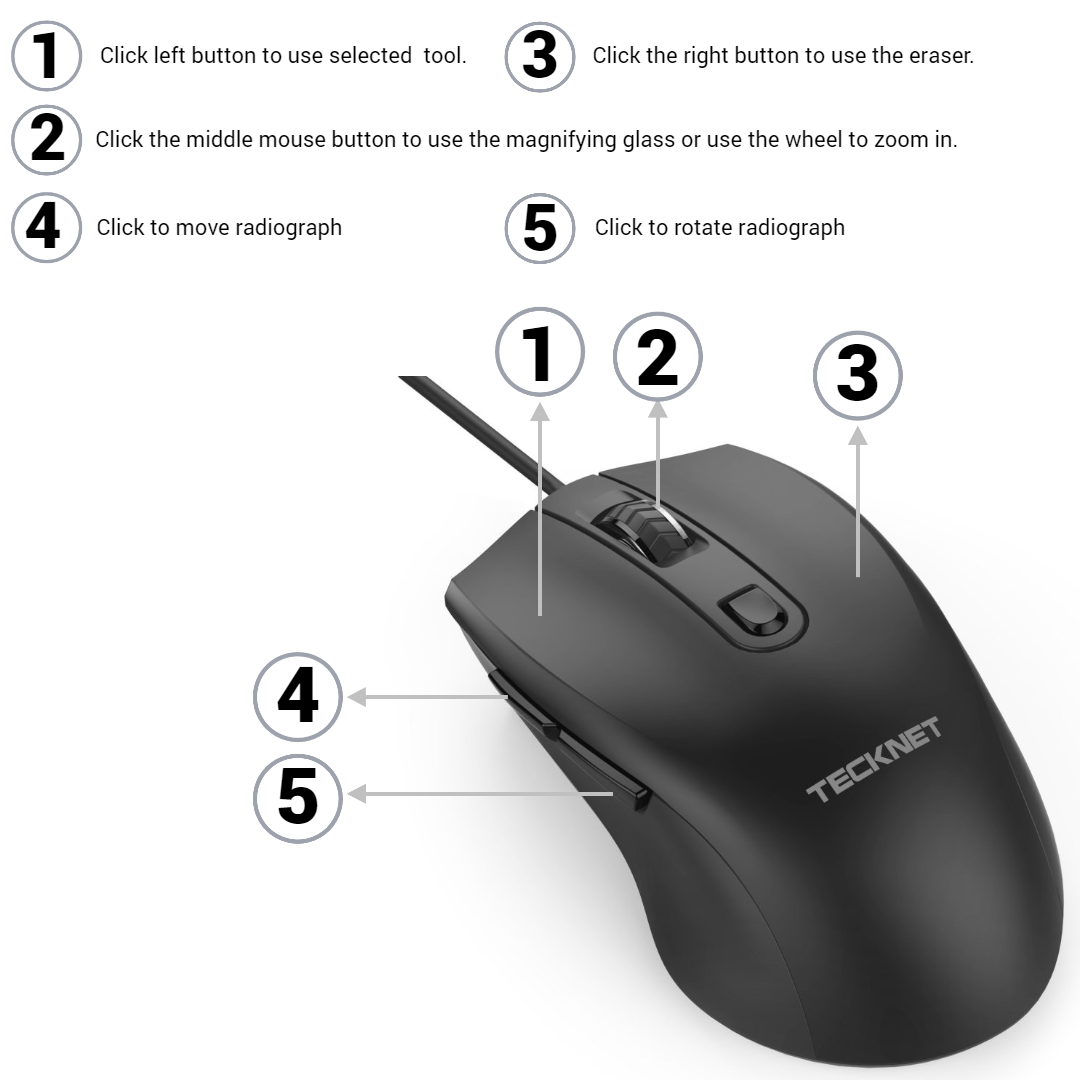
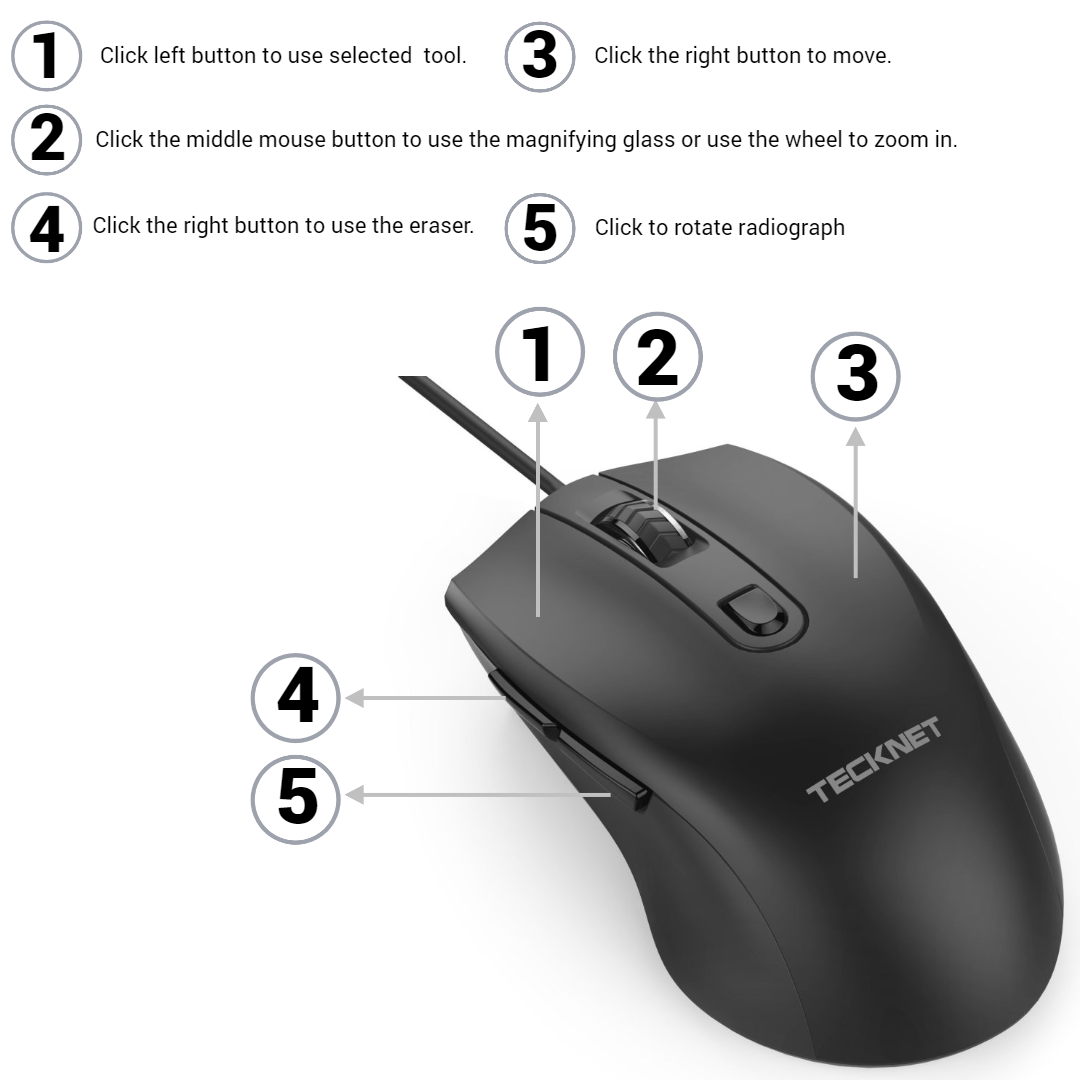
cambio de herramineta de mover a borrar por defaul

diff --git a/src/app/radiology/radiology.component.ts b/src/app/radiology/radiology.component.ts
@@ -219,6 +219,7 @@ export class RadiologyComponent implements OnInit {
     const BidirectionalTool = cornerstoneTools.BidirectionalTool; // crea una cruz tipo lenghtTool
     const FreehandRoiTool = cornerstoneTools.FreehandRoiTool; // crea lineas a partir de otras (no para hatsa llegar al punto de inico)
     const RectangleRoiTool = cornerstoneTools.RectangleRoiTool; // rectangulo calcula el area
+    const EraserTool = cornerstoneTools.EraserTool; // borrador
 
     cornerstone.enable(element);
 
@@ -253,9 +254,9 @@ export class RadiologyComponent implements OnInit {
         cornerstoneTools.setToolActive('Wwwc', { mouseButtonMask: 1 });
         break;
 
-      case 'Pan':
-        cornerstoneTools.addTool(PanTool);
-        cornerstoneTools.setToolActive('Pan', { mouseButtonMask: 1 });
+      case 'Eraser':
+        cornerstoneTools.addTool(EraserTool);
+        cornerstoneTools.setToolActive('Eraser', { mouseButtonMask: 1 });
         break;
 
       case 'Angle':
@@ -329,12 +330,12 @@ export class RadiologyComponent implements OnInit {
     cornerstoneTools.addTool(OrientationMarkersTool);
 
     //herramientas activas por defecto
-    cornerstoneTools.setToolActive('Pan', { mouseButtonMask: 16 }); // Browser Forward
+    cornerstoneTools.setToolActive('Eraser', { mouseButtonMask: 16 }); // Browser Forward
     cornerstoneTools.setToolActive('Rotate', { mouseButtonMask: 8 }); // Browser Back
 
+    cornerstoneTools.setToolActive('Pan', { mouseButtonMask: 2 }); // Borrador
     cornerstoneTools.setToolActive('ZoomMouseWheel', { mouseButtonMask: 0 }); // rueda de maus
     cornerstoneTools.setToolActive('Magnify', { mouseButtonMask: 4 }); // boton rueda
-    cornerstoneTools.setToolActive('Eraser', { mouseButtonMask: 2 }); //  click derecho
     cornerstoneTools.setToolActive('ScaleOverlay', { mouseButtonMask: 0 });
     cornerstoneTools.setToolActive('OrientationMarkers', {
       mouseButtonMask: 0,
@@ -639,6 +640,10 @@ export class RadiologyComponent implements OnInit {
           imageAlt: 'Classic mouse tutorial',
           background: '#212529',
           confirmButtonText: 'Next >',
+          showCancelButton: true,
+          allowOutsideClick: false,
+          allowEscapeKey: false,
+          allowEnterKey: false,
         }).then((result) => {
           if (result.isConfirmed) {
             Swal.fire({
@@ -650,6 +655,10 @@ export class RadiologyComponent implements OnInit {
               imageAlt: 'Tool Sttings',
               background: '#212529',
               confirmButtonText: 'Next >',
+              showCancelButton: true,
+              allowOutsideClick: false,
+              allowEscapeKey: false,
+              allowEnterKey: false,
             }).then((result) => {
               if (result.isConfirmed) {
                 Swal.fire({
@@ -660,7 +669,22 @@ export class RadiologyComponent implements OnInit {
                   imageAlt: 'Tool Sttings',
                   background: '#212529',
                   confirmButtonText: 'Next >',
-                });
+                  showCancelButton: true,
+              allowOutsideClick: false,
+              allowEscapeKey: false,
+              allowEnterKey: false,
+                }).then((result) => {
+                  if (result.isConfirmed) {
+                    Swal.fire({
+                      html: `<h1 style="color: white;">🎊🎉Congratulations!🎉🎊</h1> <br> <h4 style="color: white;">Now you can start working.</h4>`,
+                      background: '#212529',
+                      imageUrl: '../../assets/imgs/giphy.gif',
+                      imageWidth: 400,
+                      imageHeight: 200,
+                      imageAlt: 'Congratulations For end turial',
+                    });
+                  }
+                })
               }
             });
           }

diff --git a/src/app/radiology/radiology.component.html b/src/app/radiology/radiology.component.html
@@ -1,5 +1,5 @@
 <div class="fondo">
-  <ng-container *ngIf="viewUpload == !true">
+  <ng-container *ngIf="viewUpload == true">
     <div class="fondo">
       <div class="container">
         <div class="row">
@@ -71,7 +71,7 @@
     </div>
   </ng-container>
 
-  <ng-container *ngIf="viewRadiology == !true">
+  <ng-container *ngIf="viewRadiology == true">
     <div class="container-fluid text-center">
       <div class="row">
         <!-- tools de Cornerstone>>>>>> -->
@@ -446,8 +446,8 @@
             <label
               class="btn btn-outline-primary btn-group-tools"
               for="btnradio5"
-              (click)="activateTools('Pan')"
-              ><i class="bi bi-arrows-move"></i> Move</label
+              (click)="activateTools('Eraser')"
+              ><i class="bi bi-eraser-fill"></i> Eraser</label
             >
 
             <input
@@ -806,7 +806,7 @@
         <!-- <<<<<<<tools de Cornerstone -->
 
         <!-- tarjetas de enfermedad>>>> -->
-        <div class="col-2 cards-left">
+        <div class="col-2 col-xs-12 col-sm-12 col-md-12 col-lg-2 col-xl-2 col-xxl-2 cards-left">
           <div
             class="container card my-3 card-container"
             style="width: 18rem"
@@ -829,7 +829,7 @@
         <!-- <<<<tarjetas de enfermedad -->
 
         <!-- Radiologya y Data -->
-        <div class="col-10">
+        <div class="col-10 col-xs-12 col-sm-12 col-md-12 col-lg-10 col-lxg10 col-lxxg10 ">
           <div class="row">
             <!-- Radiology Image>>>> -->
             <div class="col-8">

diff --git a/src/app/radiology/radiology.component.css b/src/app/radiology/radiology.component.css
@@ -241,7 +241,6 @@ font-family: 'Zilla Slab Highlight', cursive; */
   font-family: 'Aboreto' !important;
   -moz-font-family:'Aboreto' !important;
   font-size: 30px;
-  color: aqua;
 }
 
 #dropdown option:nth-child(4) {
